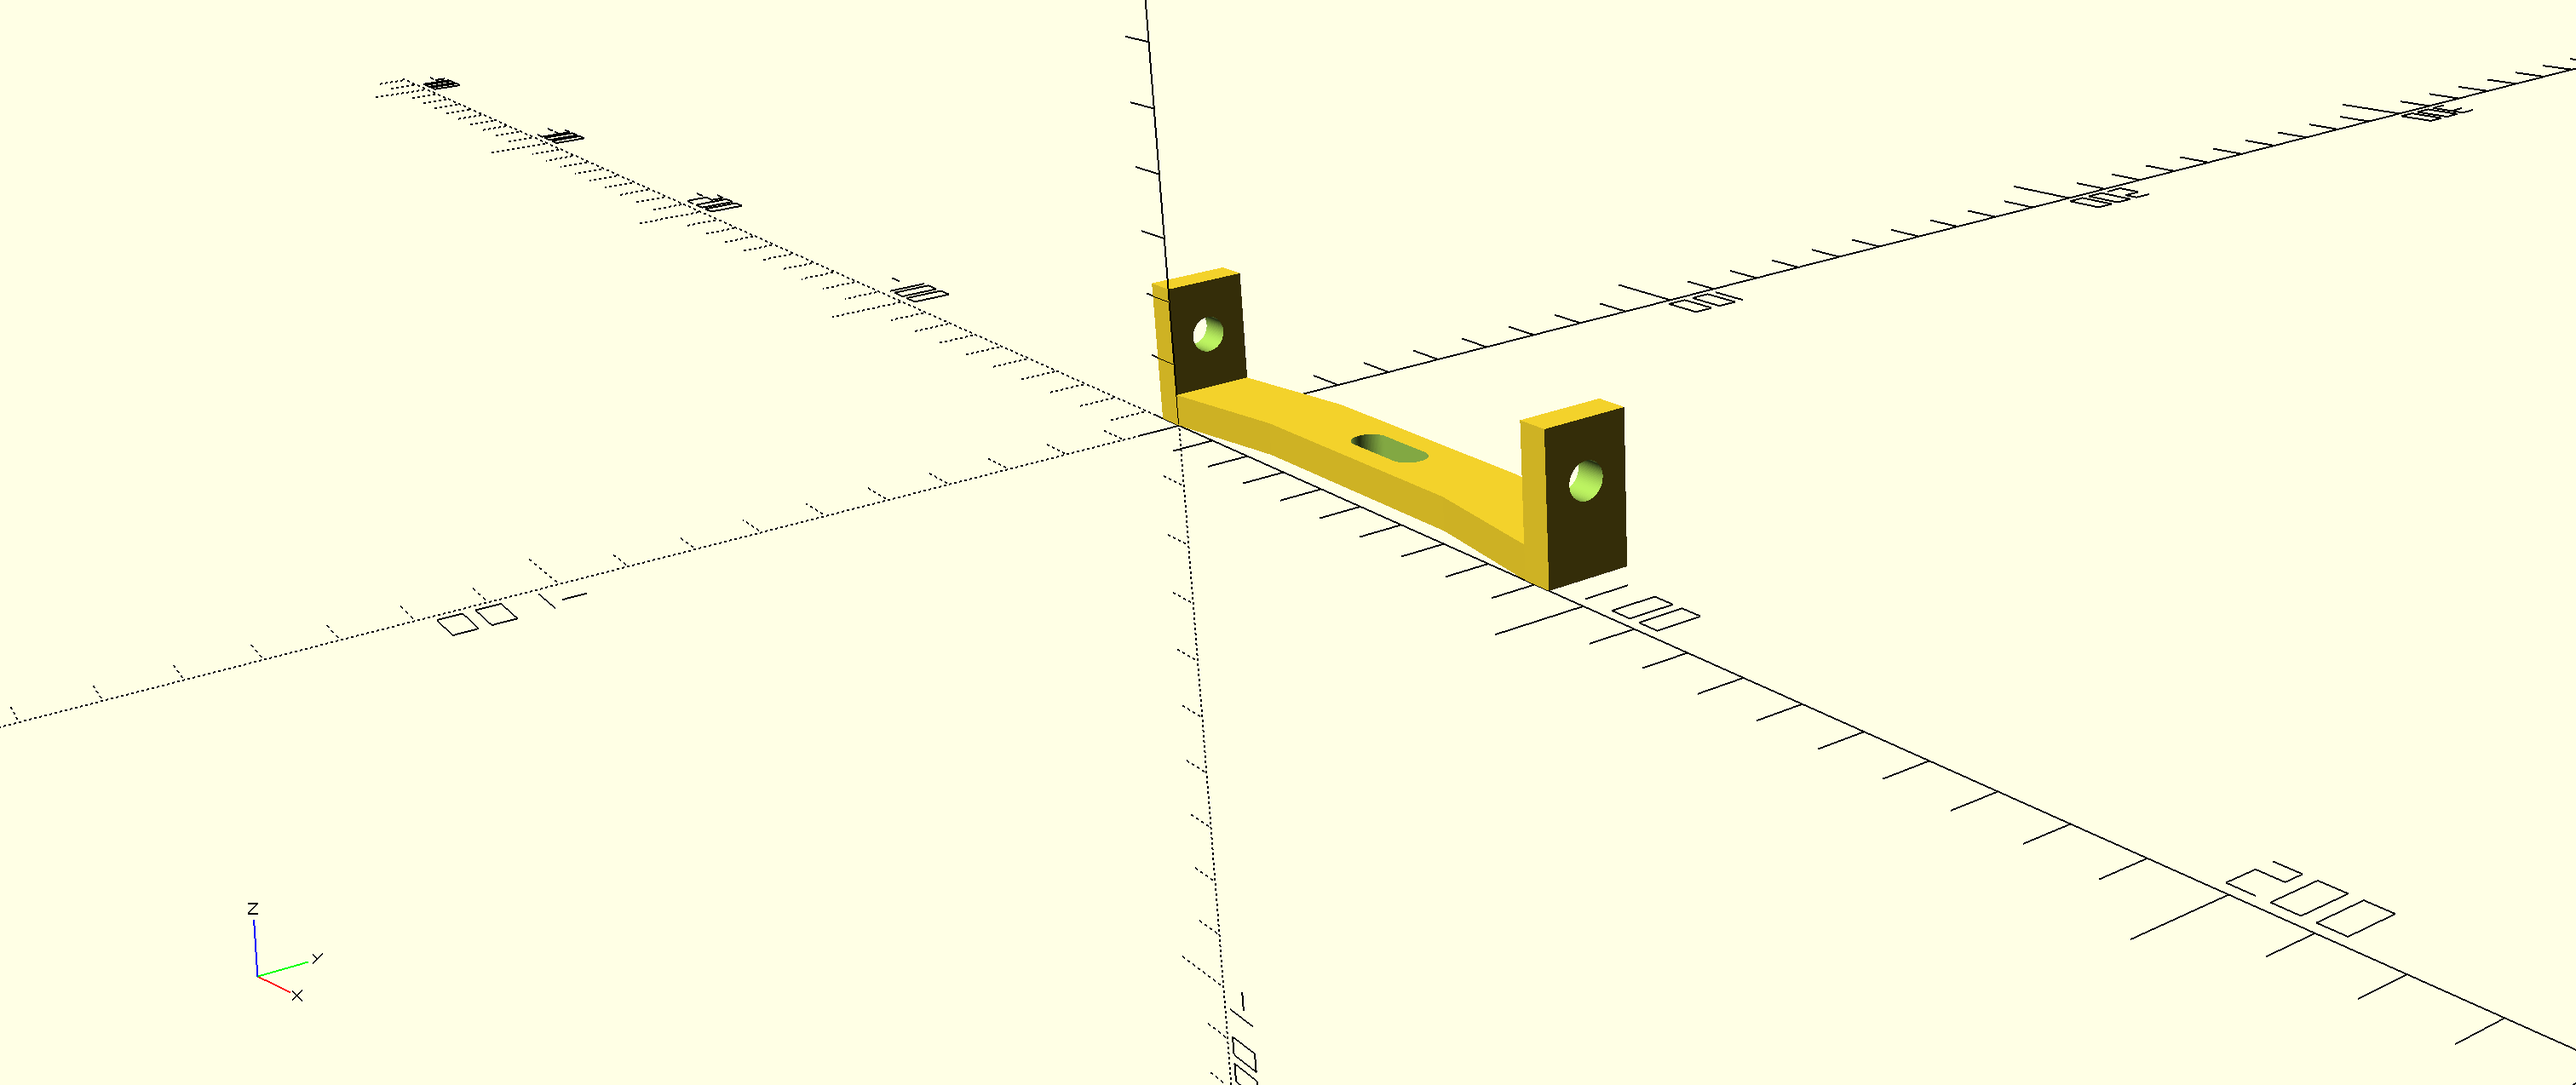
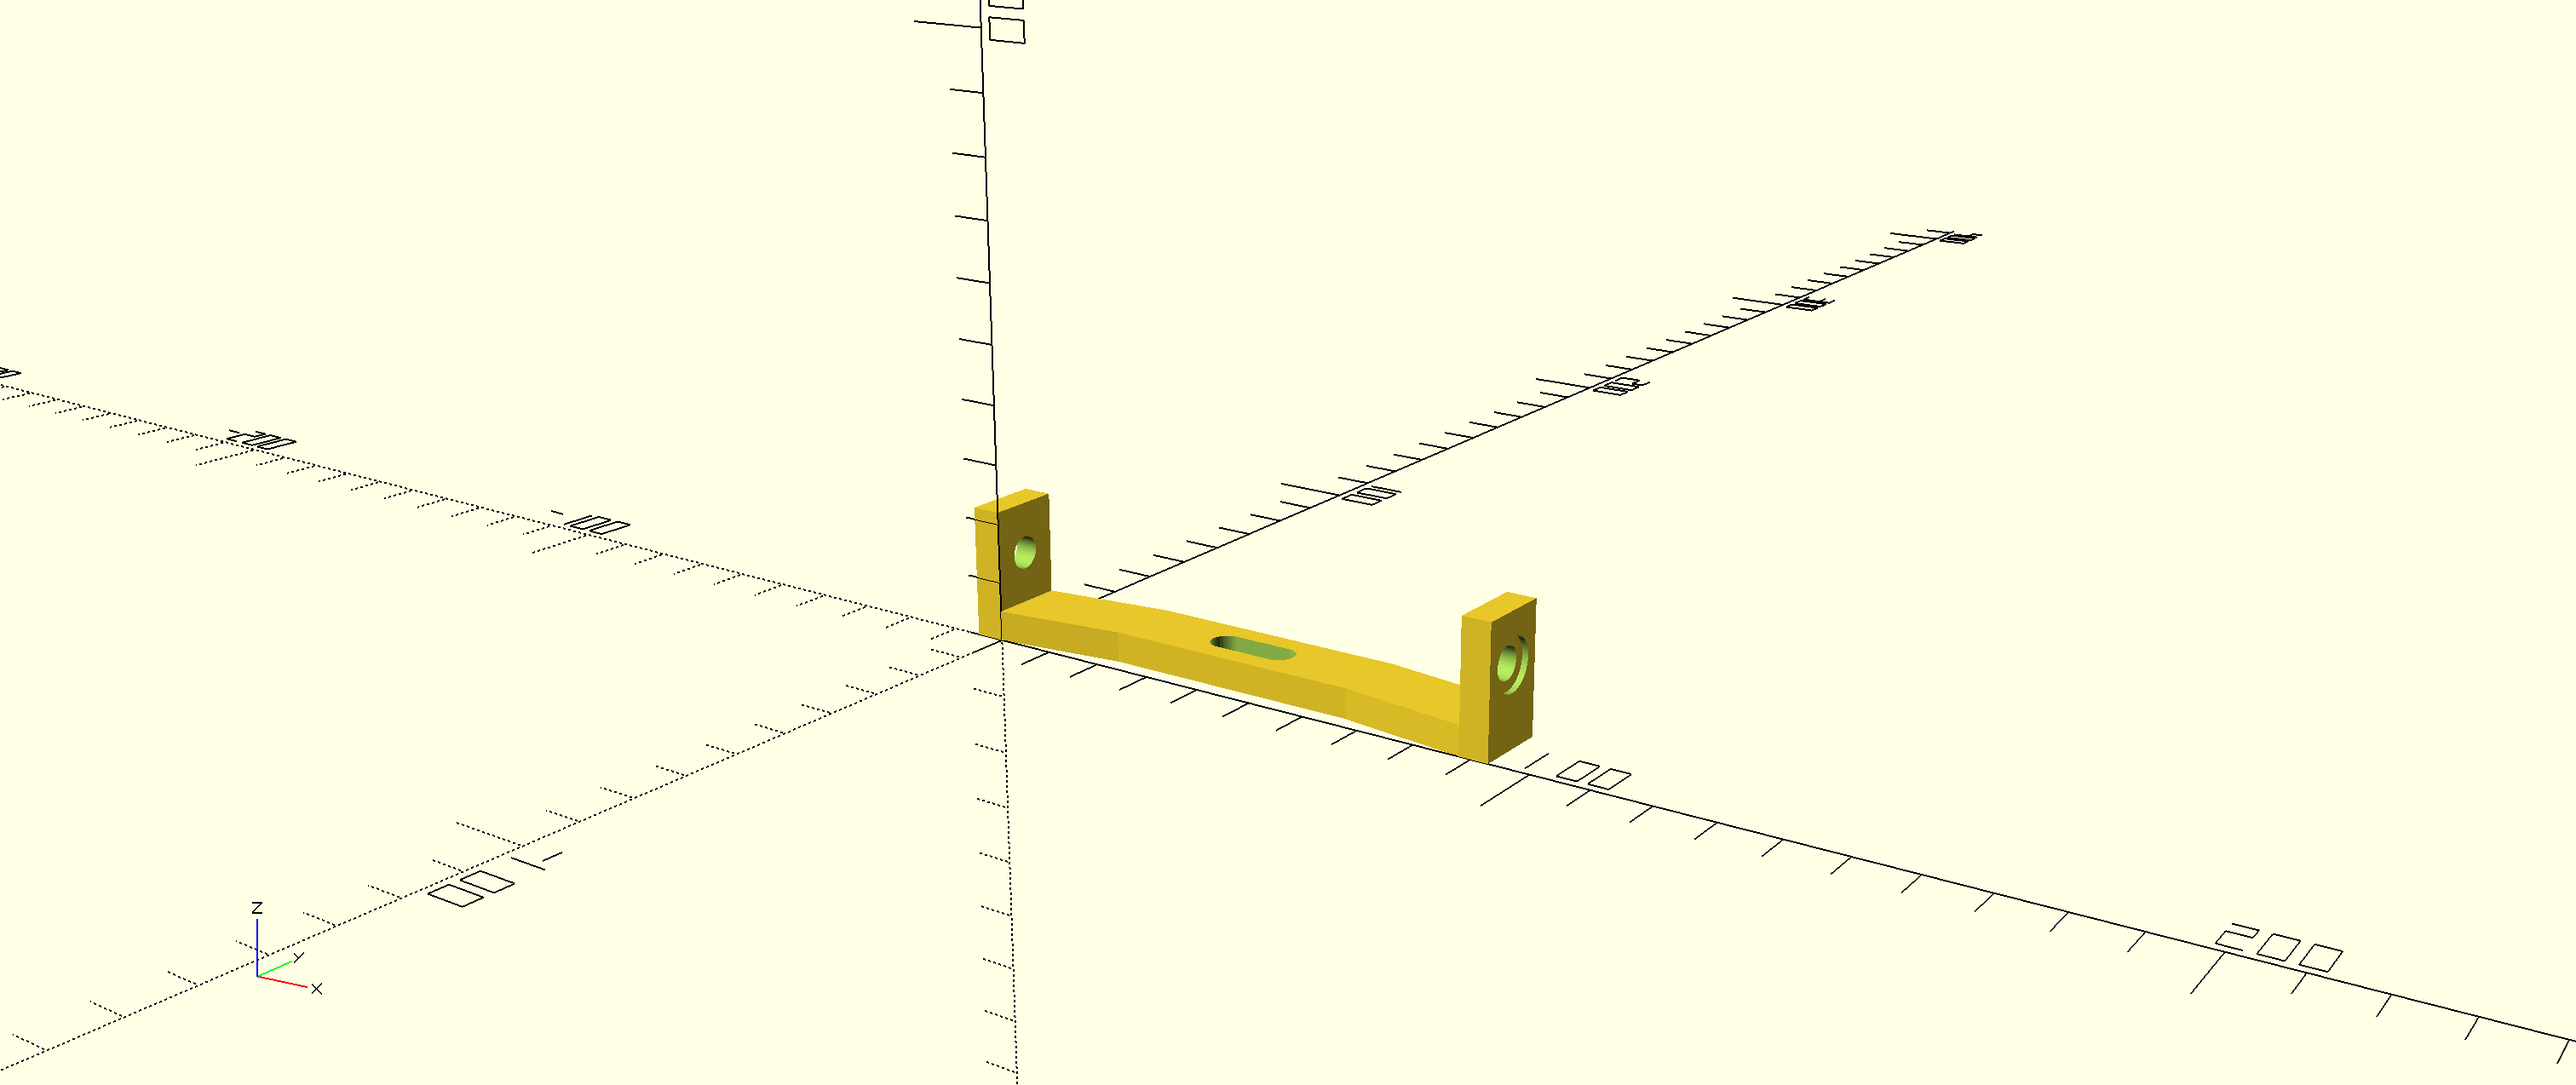
add screw head recess

diff --git a/README.md b/README.md
@@ -9,6 +9,8 @@ The bracket mounts on the upper end of the seat stays.
 ![](images/fender_bracket_ortho.png)
 
 ### ToDo:
-* add screw hole recess
-* set correct screw diameter
+* ~~add screw hole recess~~
+* ~~set correct screw diameter~~
 * add scaling factor
+* refactor to center on origin?
+* add chamfer?
